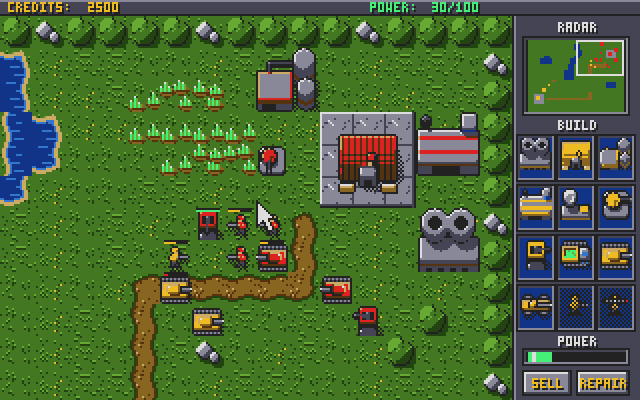
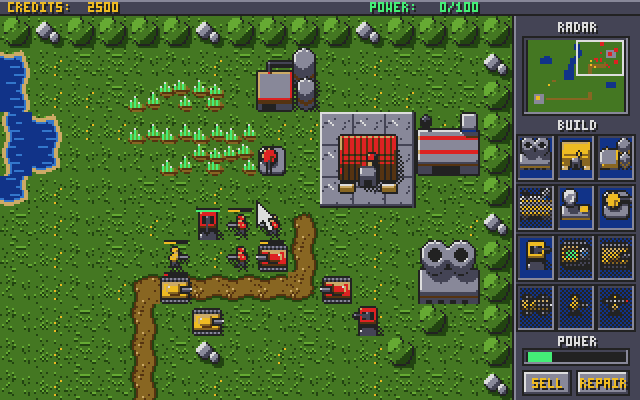
Barracks first: the war factory needs one, and we start without it
- A war factory can only be built once you have a barracks, and every map
  now starts you with the command center only (and a few units): build a
  barracks, then the war factory, before any tanks, buggies or harvesters.
- Fixed: on Green Valley the enemy's war factory opened into a pocket
  (its power plant below, the barracks pad beside it), so its tanks and
  buggies never left. The power plant moved a tile, and the generator now
  checks that every building's door, the dock and the exit can be reached.
- The enemy sends a wave with what it has once it is at its unit limit,
  so units held up somewhere can't stop it attacking.
- Tests: G.quickbuild builds a structure at once; bldtest, typetest,
  blocktest, soundevents and defendtest build the barracks and factory
  they need; turret spots moved within reach of the command center.
- README, docs (new difficulty table for all four maps) and screenshots.

diff --git a/tools/makegfx.py b/tools/makegfx.py
@@ -1623,14 +1623,14 @@ F_BUILDING, F_AI, F_AMOVE, F_DIRTY = 0x100, 0x200, 0x400, 0x8000
 # The maps: name, terrain, the starting buildings ((name, top-left column,
 # row): the command center and the enemy's barracks on 3x3 pads of
 # concrete, the rest 2x2 on open ground; they become units after the
-# others), the units (name, column, row), where harvesters unload (next
+# others; we start with the command center only), the units (name, column, row), where harvesters unload (next
 # to the command center), where our new units appear when no building
 # makes them, the first view's top-left tile, and whether the enemy is in
 # the west (then the units start facing each other that way).
 MAPS = [
     {'name': 'GREEN VALLEY', 'rows': green_valley(),
-     'buildings': [('hq_p', 2, 18), ('bar_e', 26, 3), ('fact_p', 5, 16),
-                   ('fact_e', 29, 3), ('ref_e', 24, 1), ('pp_e', 29, 6)],
+     'buildings': [('hq_p', 2, 18), ('bar_e', 26, 3),
+                   ('fact_e', 29, 3), ('ref_e', 24, 1), ('pp_e', 29, 7)],
      'units': [('tank_p', 6, 18), ('tank_p', 6, 20), ('harv_p', 8, 16),
                ('sold_p', 5, 21), ('sold_p', 6, 21),
                ('tank_e', 24, 7), ('tank_e', 26, 8),
@@ -1639,7 +1639,7 @@ MAPS = [
      'dock': (5, 19), 'exit': (5, 20), 'camera': (0, 12),
      'enemy_west': False},
     {'name': 'RIVER CROSSING', 'rows': river_crossing(),
-     'buildings': [('hq_p', 26, 17), ('bar_e', 3, 3), ('fact_p', 29, 17),
+     'buildings': [('hq_p', 26, 17), ('bar_e', 3, 3),
                    ('fact_e', 6, 1), ('ref_e', 1, 6), ('pp_e', 1, 3)],
      'units': [('tank_p', 24, 17), ('tank_p', 24, 19), ('harv_p', 21, 17),
                ('sold_p', 26, 20), ('sold_p', 25, 20),
@@ -1649,7 +1649,7 @@ MAPS = [
      'dock': (25, 18), 'exit': (25, 19), 'camera': (16, 12),
      'enemy_west': True},
     {'name': 'TWIN LAKES', 'rows': twin_lakes(),
-     'buildings': [('hq_p', 2, 3), ('bar_e', 26, 18), ('fact_p', 5, 1),
+     'buildings': [('hq_p', 2, 3), ('bar_e', 26, 18),
                    ('fact_e', 29, 18), ('ref_e', 23, 14), ('pp_e', 28, 15)],
      'units': [('tank_p', 6, 4), ('tank_p', 6, 6), ('harv_p', 8, 8),
                ('sold_p', 4, 7), ('sold_p', 5, 7),
@@ -1659,7 +1659,7 @@ MAPS = [
      'dock': (5, 4), 'exit': (5, 5), 'camera': (0, 0),
      'enemy_west': False},
     {'name': 'STONE PASS', 'rows': stone_pass(),
-     'buildings': [('hq_p', 2, 10), ('bar_e', 27, 10), ('fact_p', 5, 7),
+     'buildings': [('hq_p', 2, 10), ('bar_e', 27, 10),
                    ('fact_e', 24, 8), ('ref_e', 24, 13), ('pp_e', 29, 6)],
      'units': [('tank_p', 6, 11), ('tank_p', 6, 13), ('harv_p', 8, 14),
                ('sold_p', 4, 14), ('sold_p', 5, 14),
@@ -1754,10 +1754,12 @@ H_IDLE, H_SEEK, H_GOTO, H_MINE, H_HOME, H_UNLOAD = range(6)
 
 # sidebar build icons, three across, top to bottom. Structures and units
 # build in two separate queues; soldiers need a barracks, vehicles a war
-# factory (and come out of it); so do the enemy's.
+# factory (and come out of it), and a war factory needs a barracks; so do
+# the enemy's.
 ICON_UNITS = ['pp_p', 'bar_p', 'ref_p', 'fact_p', 'radar_p', 'turret_p', 'tower_p',
               'harv_p', 'tank_p', 'buggy_p', 'sold_p', 'rock_p']
-NEEDS = {'sold_p': 'bar_p', 'rock_p': 'bar_p', 'harv_p': 'fact_p', 'tank_p': 'fact_p',
+NEEDS = {'fact_p': 'bar_p',
+         'sold_p': 'bar_p', 'rock_p': 'bar_p', 'harv_p': 'fact_p', 'tank_p': 'fact_p',
          'buggy_p': 'fact_p', 'sold_e': 'bar_e', 'rock_e': 'bar_e', 'tank_e': 'fact_e',
          'buggy_e': 'fact_e'}
 BARSEGS = 8                     # a progress bar's segments (2 pixels each)
@@ -2258,6 +2260,21 @@ def map_checks():
         assert MAP[y][x] not in BLOCKED + 'o' and (x, y) not in foot, (x, y)
     for name, c, r in UNITS:
         assert (c, r) not in foot and (c, r) not in doors, name
+    # every door, the dock and the exit reach our dock (units step only
+    # straight, not past the corners of walls, so straight steps it is)
+    walls = foot | {(c, r) for name, c, r in UNITS if name.startswith(('turret', 'tower'))}
+    def open_(x, y):
+        return MAP[y][x] not in BLOCKED and (x, y) not in walls
+    reach, todo = {DOCK}, [DOCK]
+    while todo:
+        x, y = todo.pop()
+        for dx, dy in ((1, 0), (-1, 0), (0, 1), (0, -1)):
+            n = (x + dx, y + dy)
+            if n not in reach and open_(*n):
+                reach.add(n)
+                todo.append(n)
+    for p in doors + [EXIT]:
+        assert p in reach, ('shut in', p)
 
 
 # -------------------------------------------------------------- options
@@ -2943,7 +2960,7 @@ def main(outdir):
            'SPR_FOG': SPRITE_ORDER.index('fog_n'), 'TMPLSZ': TMPLSZ, 'ICONSZ': ICONSZ,
            **{'TMPL_' + n.upper().replace('_', ''): names.index(n) * TMPLSZ
               for n in ('hq_p', 'bar_p', 'bar_e', 'fact_p', 'fact_e', 'ref_p', 'ref_e',
-                        'radar_p', 'pp_e', 'harv_p')},
+                        'radar_p', 'pp_e', 'pp_p', 'harv_p')},
            'BARSEGS': BARSEGS, 'ICONWB': ICONWB,
            'RADOFFADDR': labeladdr + radoff,
            'MAPNAMES': labeladdr + mapnames, 'MAPNAMEW': 48, 'MAPNAMEH': OPT_BTN_H,

diff --git a/docs/TECHNICAL.md b/docs/TECHNICAL.md
@@ -149,8 +149,9 @@ The starting buildings come from the map like the units.
 
 A building's door is the tile below its bottom-left corner. Units come out
 by the door of the building they need (`findbld`): soldiers a barracks,
-vehicles a war factory, for both sides; without one, its icons are greyed
-out. Our harvesters unload at a dock: the one next to the command center
+vehicles a war factory, for both sides, and a war factory a barracks (the
+template's "needs" works for structures too); without one, its icons are
+greyed out. Our harvesters unload at a dock: the one next to the command center
 or one in front of a refinery (its door). `calcpower` keeps the list of
 docks along with the power; a harvester heads for the nearest (column plus
 row distance), and if that refinery is gone on the way, for the next. No
@@ -217,15 +218,21 @@ units as its first. The numbers per difficulty (`DIFFICULTIES` in
 | wave size, first to most | 2 to 4 | 3 to 5 | 3 to 6 |
 | its units out at once, at most | 5 | 6 | 8 |
 
-How hard that is (`tools/aitest.lua`): on Green Valley a player who does
-nothing loses after about 6 2/3 minutes on EASY, 2 3/4 on NORMAL and
-3 1/2 on HARD (its waves stop to shoot at our war factory on the way, and
-our starting units fight back meanwhile); on River Crossing after about
-3 1/2 minutes on NORMAL and 2 3/4 on HARD; on Twin Lakes 2 3/4 and 2 1/4;
-on Stone Pass 2 3/4 and 2. Two turrets by the
-command center and a few tanks hold the base through the 8 minutes
-`tools/defendtest.lua` plays, on NORMAL and on HARD without a scratch on
-the command center.
+How hard that is (`tools/aitest.lua`): a player who does nothing loses
+after about this many minutes.
+
+| | EASY | NORMAL | HARD |
+|---|---:|---:|---:|
+| Green Valley | 4 3/4 | 2 3/4 | 2 |
+| River Crossing (the way over a ford is long) | 6 | 4 1/2 | 3 1/2 |
+| Twin Lakes | 3 3/4 | 2 3/4 | 2 1/4 |
+| Stone Pass | 5 | 2 3/4 | 2 1/4 |
+
+At its limit of units the enemy sends what it has, so units held up
+somewhere can't stop it from attacking. Two turrets by the command center,
+then a barracks, a war factory and a few tanks hold the base through the 8
+minutes `tools/defendtest.lua` plays: on NORMAL without a scratch on the
+command center, on HARD with a few.
 
 You win when every enemy unit and building is gone, and lose when your
 command center falls.
@@ -246,7 +253,7 @@ structure (it stays ready), selling or repairing.
 Each map is painted from a few shapes in `tools/makegfx.py`
 (`green_valley`, `river_crossing`, `twin_lakes`, `stone_pass`; the border
 is impassable) and described
-in `MAPS`: its starting buildings (our command center and war factory; the
+in `MAPS`: its starting buildings (our command center; the
 enemy's barracks, war factory, refinery and power plant) and units, where
 harvesters unload, where new units appear when no building makes them and
 the first view.
@@ -273,7 +280,10 @@ picture, a preview picture (the radar's without the enemy's base pad), the
 starting buildings' pieces and the starting units. When a game starts the
 chosen map's block is unpacked into `mapblk` in the program and its radar
 picture into the sidebar layer, so the code works on whichever map it is.
-The tiles of all the maps share one tile set. A table made with
+`map_checks` makes sure that nothing stands where it shouldn't and that
+every building's door, the dock and the exit can be reached from the rest
+of the map (units step only straight past wall corners). The tiles of all
+the maps share one tile set. A table made with
 CONQUER.DATA (`maptab.bin`) gives each map's block.
 
 ## The options screen

diff --git a/docs/BUILDING.md b/docs/BUILDING.md
@@ -124,15 +124,18 @@ Most print their findings and end with `problems: 0` when all is well.
   the game ends; prints when the first wave left, when the command center
   was first hit, when the game ended and what the enemy built, then clicks
   to restart.
-- `tools/defendtest.lua` (900 s): a simple defense (two turrets, then tanks
-  while there is money) for up to 8 minutes.
+- `tools/defendtest.lua` (900 s): a simple defense (two turrets, a
+  barracks and a war factory, then tanks while there is money) for up to 8
+  minutes.
 - `tools/wintest.lua` (400 s): removes the enemy's units and its other
   buildings and destroys the barracks with one tank, then prints how long a
   new game takes to start after the click (about 2.5 seconds).
-- `tools/bldtest.lua` (200 s): the new buildings: the radar is off (and
-  says so) until a radar center stands, then on, and off again with too
-  little power; a refinery comes with a harvester and a second dock where
-  harvesters unload; a guard tower stands like a turret; tanks roll out of
+- `tools/bldtest.lua` (200 s): the new buildings (built at once by the
+  script, `G.quickbuild`): we start with a command center only, the war
+  factory needs a barracks; the radar is off (and says so) until a radar
+  center stands, then on, and off again with too little power; a refinery
+  comes with a harvester and a second dock where harvesters unload; a
+  guard tower stands like a turret; tanks roll out of
   the war factory, and after it is sold none can be built. Then the enemy:
   infantry out of its barracks, vehicles out of its war factory, none of
   those once the factory is gone, no income without its refinery and half
@@ -145,8 +148,9 @@ Most print their findings and end with `problems: 0` when all is well.
   and repairs them (checking hit points against the credits paid, the
   pressed button and the cursors), sells both (checking the refund, power
   and that their tiles open up), then tries a repair without enough credits.
-- `tools/typetest.lua` (200 s): builds a buggy, a barracks and a rocket
-  soldier and checks their stats, times the buggy and a tank over open
+- `tools/typetest.lua` (200 s): a barracks and a war factory (at once),
+  then builds a buggy and a rocket soldier and checks their stats,
+ times the buggy and a tank over open
   ground, then sets up single fights to check the damage of each weapon
   against each kind of armor.
 - `tools/blocktest.lua` (200 s): boxes a new buggy in by the war factory

diff --git a/README.md b/README.md
@@ -37,7 +37,7 @@ with Ensoniq sound and music.
 | | |
 |---|---|
 | ![The start of a game](docs/images/start.png) | ![A base](docs/images/base.png) |
-| The start of a game on Green Valley: a command center and a war factory | A base with a radar center, a refinery, a guard tower and a turret |
+| The start of a game on Green Valley: a command center and your first units | A base with a radar center, a refinery, a guard tower and a turret |
 | ![An attack on the base](docs/images/defense.png) | ![The enemy's base](docs/images/enemy-base.png) |
 | The enemy attacks; the turret and the guard tower fire back | The enemy's base: barracks, war factory, refinery, power plant and guard towers |
 | ![A battle](docs/images/battle.png) | ![River Crossing](docs/images/river-crossing.png) |
@@ -109,7 +109,7 @@ Then click START or press RETURN. Your choices are kept for the next game.
 
 ### Economy and power
 
-- You start with 2500 credits, a command center and a war factory. Your
+- You start with 2500 credits and a command center, plus a few units. Your
   harvester mines the nearest ore on its own (25 credits a scoop, 500 a
   load) and unloads at the nearest dock: the one next to your command
   center, or the one in front of a refinery. Click an ore field to send it
@@ -130,7 +130,8 @@ Then click START or press RETURN. Your choices are kept for the next game.
 ### Units
 
 Vehicles come out of a war factory, soldiers out of a barracks; without
-one, their icons are greyed out.
+one, their icons are greyed out. A war factory can only be built once you
+have a barracks.
 
 | Unit | Cost | Build time | Hit points | Range | Weapon | |
 |---|---:|---:|---:|---:|---|---|
@@ -147,7 +148,8 @@ one, their icons are greyed out.
 | Power plant | 300 | 6 s | 2x2 | +100 | |
 | Barracks | 500 | 8 s | 2x2 | -30 | trains soldiers |
 | Refinery | 1500 | 10 s | 2x2 | -30 | a dock for harvesters; comes with one |
-| War factory | 1000 | 10 s | 2x2 | -30 | builds vehicles |
+| War factory | 1000 | 10 s | 2x2 | -30 | builds vehicles; needs a barracks |
+
 | Radar center | 800 | 8 s | 2x2 | -40 | turns the radar on |
 | Turret | 600 | 8 s | 1x1 | -40 | 200 hit points, cannon 20, range 4 |
 | Guard tower | 400 | 5 s | 1x1 | -10 | 150 hit points, machine gun 6, range 3 |
